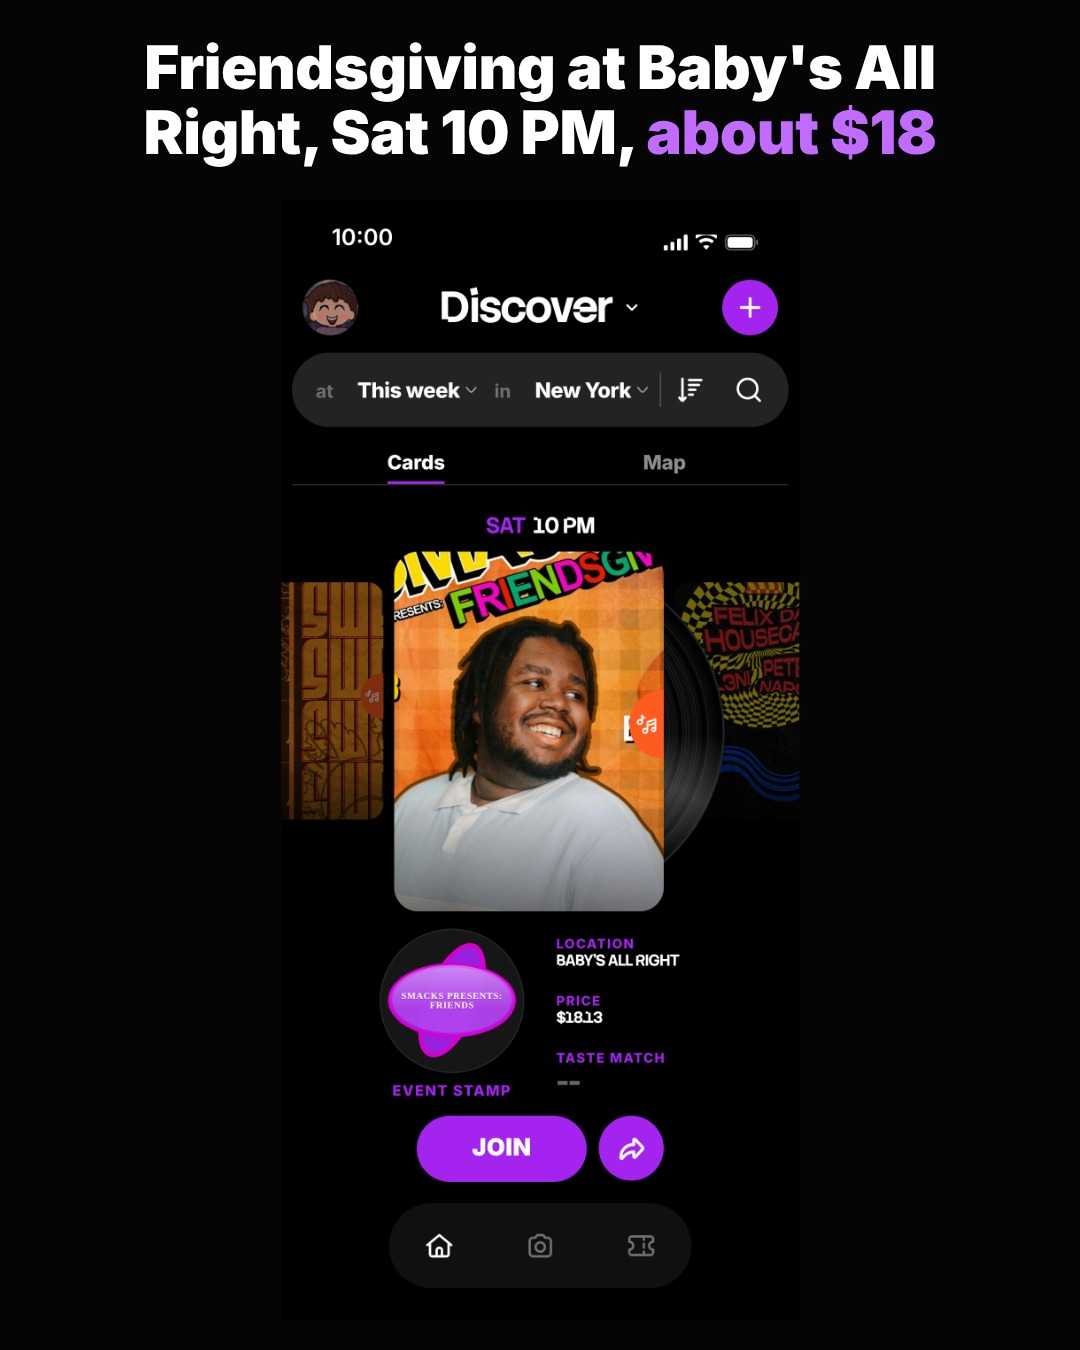
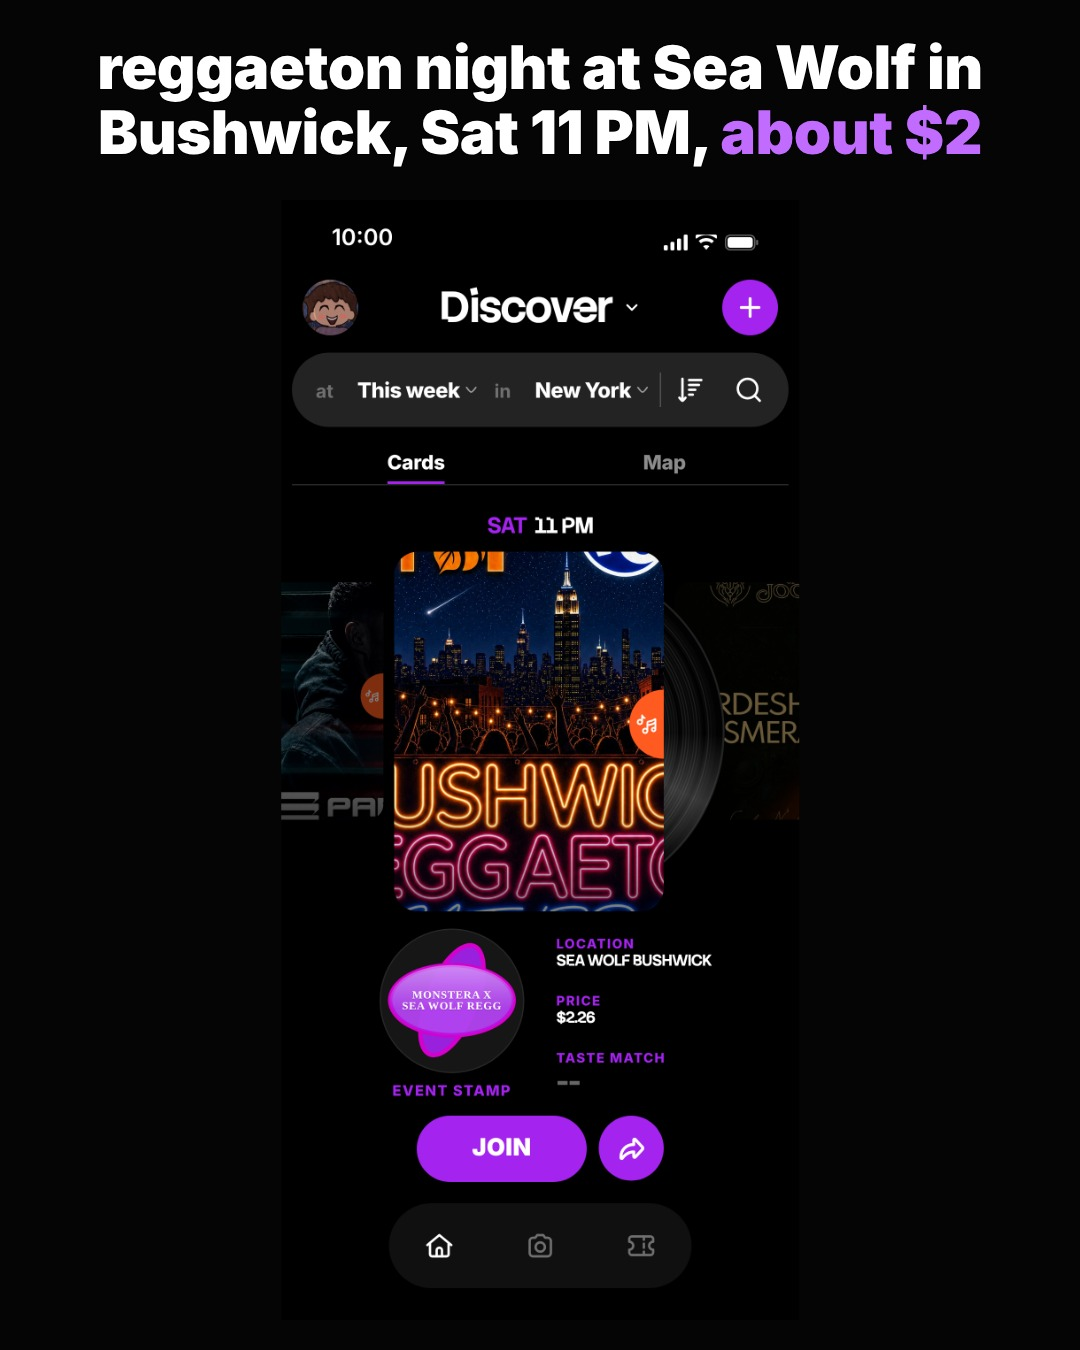
Friday carousels after review: NYC picks swapped (ambiguous sketch, glam peek, a flyer dated a day off), TikTok map CTA moved above the covered band
Claude-Session: https://claude.ai/code/session_019i3sgX9J32sKfBsJBqzsN2

diff --git a/videos/2026-11-27-nyc-carousel/caption.md b/videos/2026-11-27-nyc-carousel/caption.md
@@ -1,13 +1,13 @@
 **TikTok** (photo post, 9 slides, 1080x1920: `tiktok/1.jpg` to `tiktok/9.jpg`; sound: auto music; title: things to do in NYC this weekend)
 
-things to do in NYC this weekend 🗽 Saturday: A More Than Average Concert at Starr Bar, Friendsgiving at Baby's All Right, reggaeton at Sea Wolf. Sunday: Souled Out Sunday brunch, Lew Tabackin's jazz trio, BUCKAROO at Desert 5 Spot, Frank Hurricane at Union Pool. every event in NYC on one map with pxi, free on iPhone and Android #thingstodoinnyc #nycweekend #brooklyn #nyc #nycevents
+things to do in NYC this weekend 🗽 Saturday: Friendsgiving at Baby's All Right, reggaeton at Sea Wolf. Sunday: Souled Out Sunday brunch, Lew Tabackin's jazz trio, BUCKAROO at Desert 5 Spot, Second Spin on the Highwater rooftop, Integrity at Saint Vitus. every event in NYC on one map with pxi, free on iPhone and Android #thingstodoinnyc #nycweekend #brooklyn #nyc #nycevents
 
 **Instagram and Facebook** (carousel post, 9 slides, 1080x1350: `ig/1.jpg` to `ig/9.jpg`)
 
 things to do in NYC this weekend 🗽 seven picks for Saturday and Sunday
 
-Saturday: A More Than Average Concert at Starr Bar at 7 (about $11), Smacks Presents: Friendsgiving at Baby's All Right at 10 (about $18), reggaeton at Sea Wolf in Bushwick at 11 (about $2).
-Sunday: Souled Out Sunday, brunch and a day party at 333 Lounge at 2, Lew Tabackin's Dual Nature Trio at Michiko Studios at 3 ($14), BUCKAROO at Desert 5 Spot at 5 (about $13), Frank Hurricane at Union Pool at 7 (about $19).
+Saturday: Smacks Presents: Friendsgiving at Baby's All Right at 10 PM (about $18), reggaeton at Sea Wolf in Bushwick at 11 PM (about $2).
+Sunday: Souled Out Sunday, brunch and a day party at 333 Lounge at 2, Lew Tabackin's Dual Nature Trio at Michiko Studios at 3 ($14), BUCKAROO at Desert 5 Spot at 5 (about $13), Second Spin at Highwater Rooftop at 5 (about $12), Integrity and Most Precious Blood at Saint Vitus at 6 (about $55).
 
 pxi is a free app to find things to do near you: every event in New York on one map, with its poster, place and price.
 
